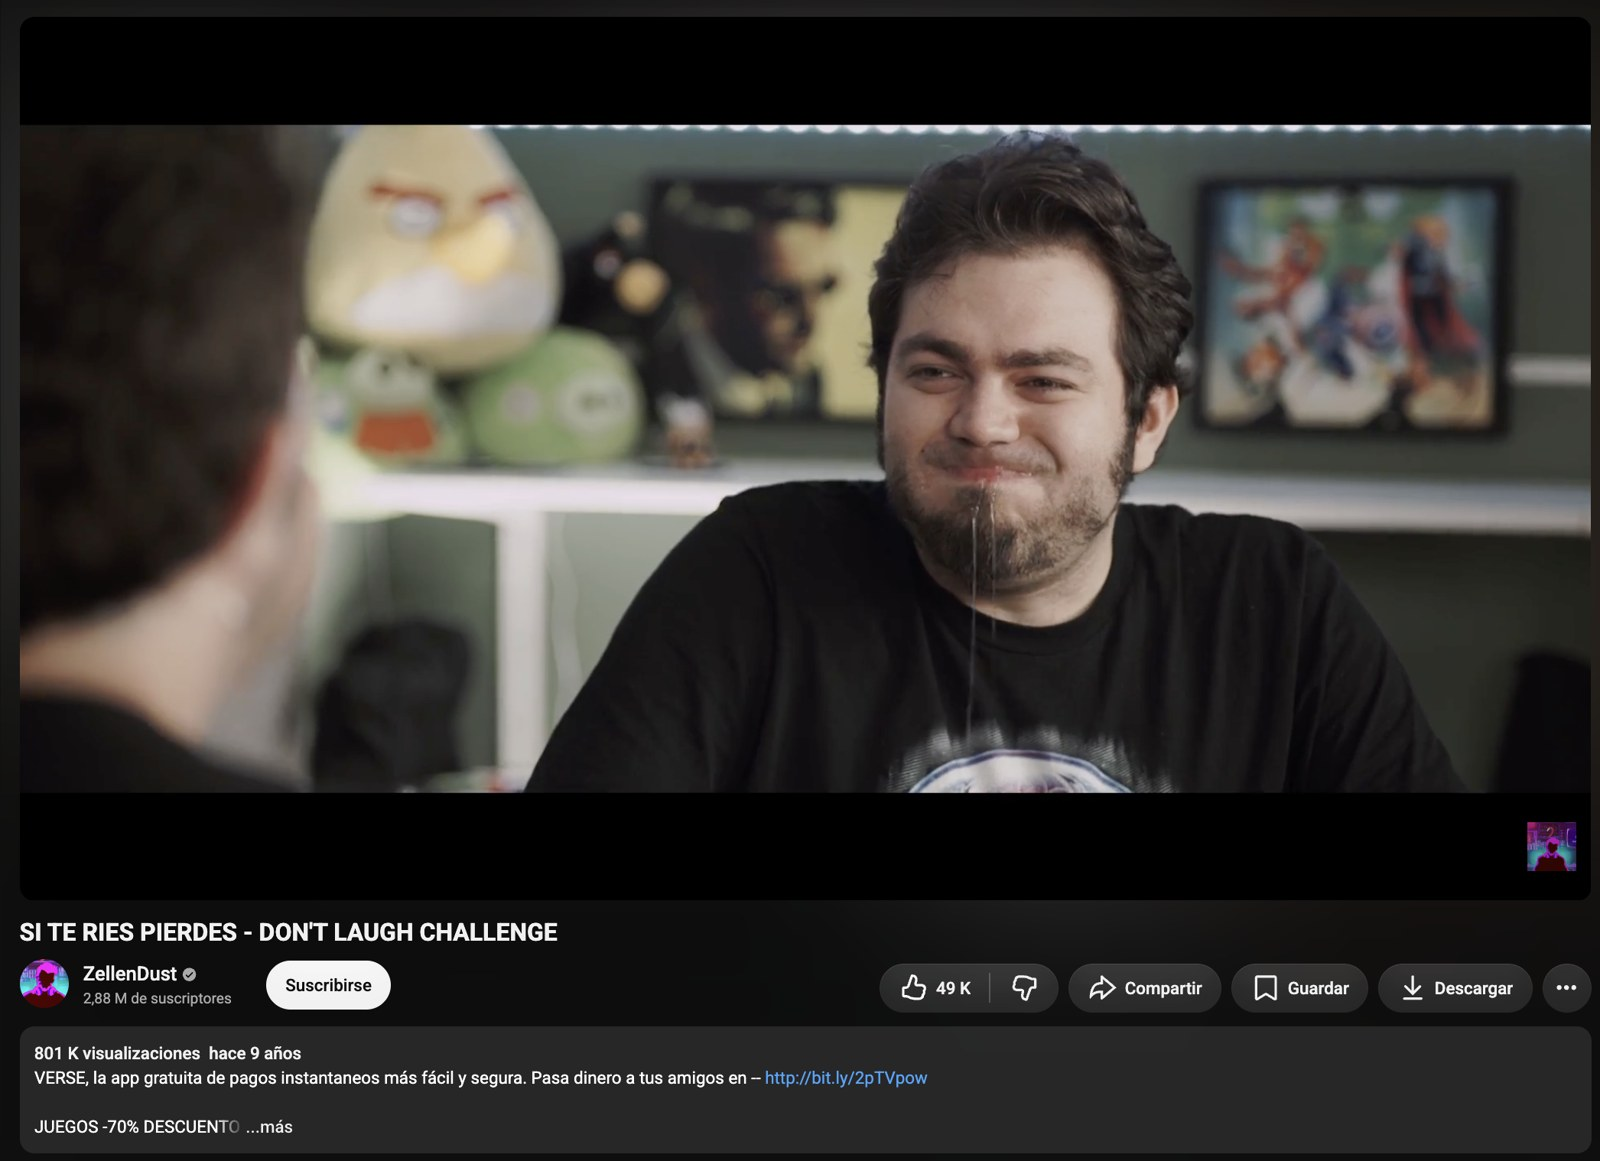
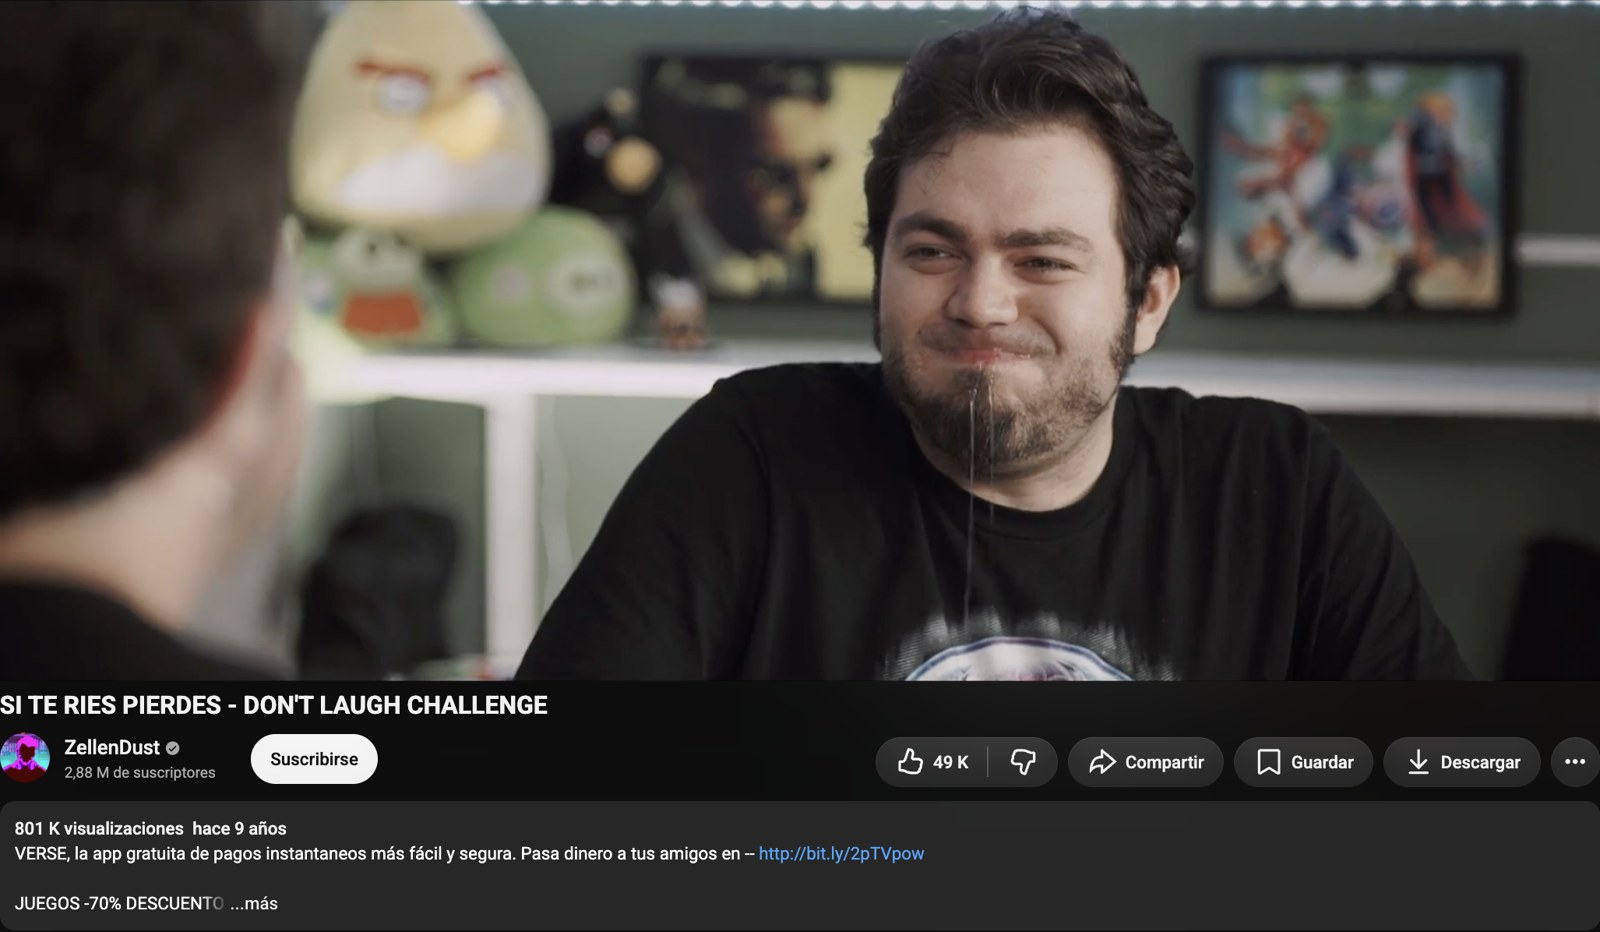
XYON image without black bars

diff --git a/app/page.js b/app/page.js
@@ -1024,7 +1024,7 @@ function WorkSoon({ u }) {
       </article>
 
       <article style={{ marginTop: 72 }}>
-        <div className="media" style={{ aspectRatio: '1600 / 1161' }}>
+        <div className="media" style={{ aspectRatio: '1600 / 932' }}>
           <img src="/assets/hilos/xyon.jpg" alt="Si te ríes pierdes — ZellenDust" loading="lazy" />
         </div>
         <div className="t-caption" style={{ marginTop: 8 }}>{s.xyon.caption}</div>
